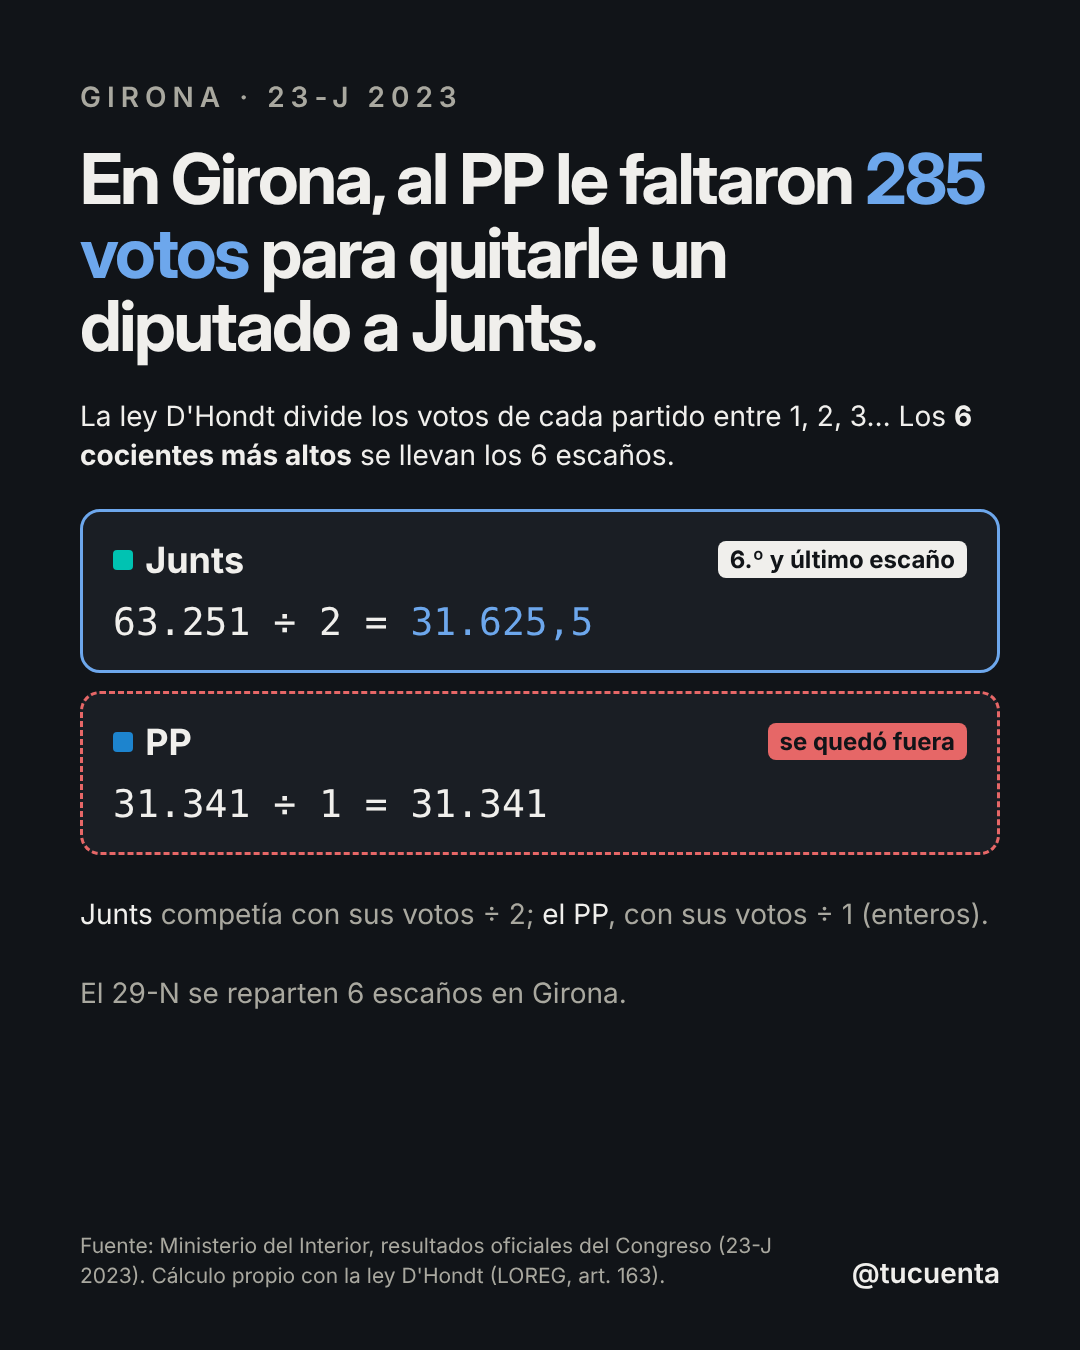
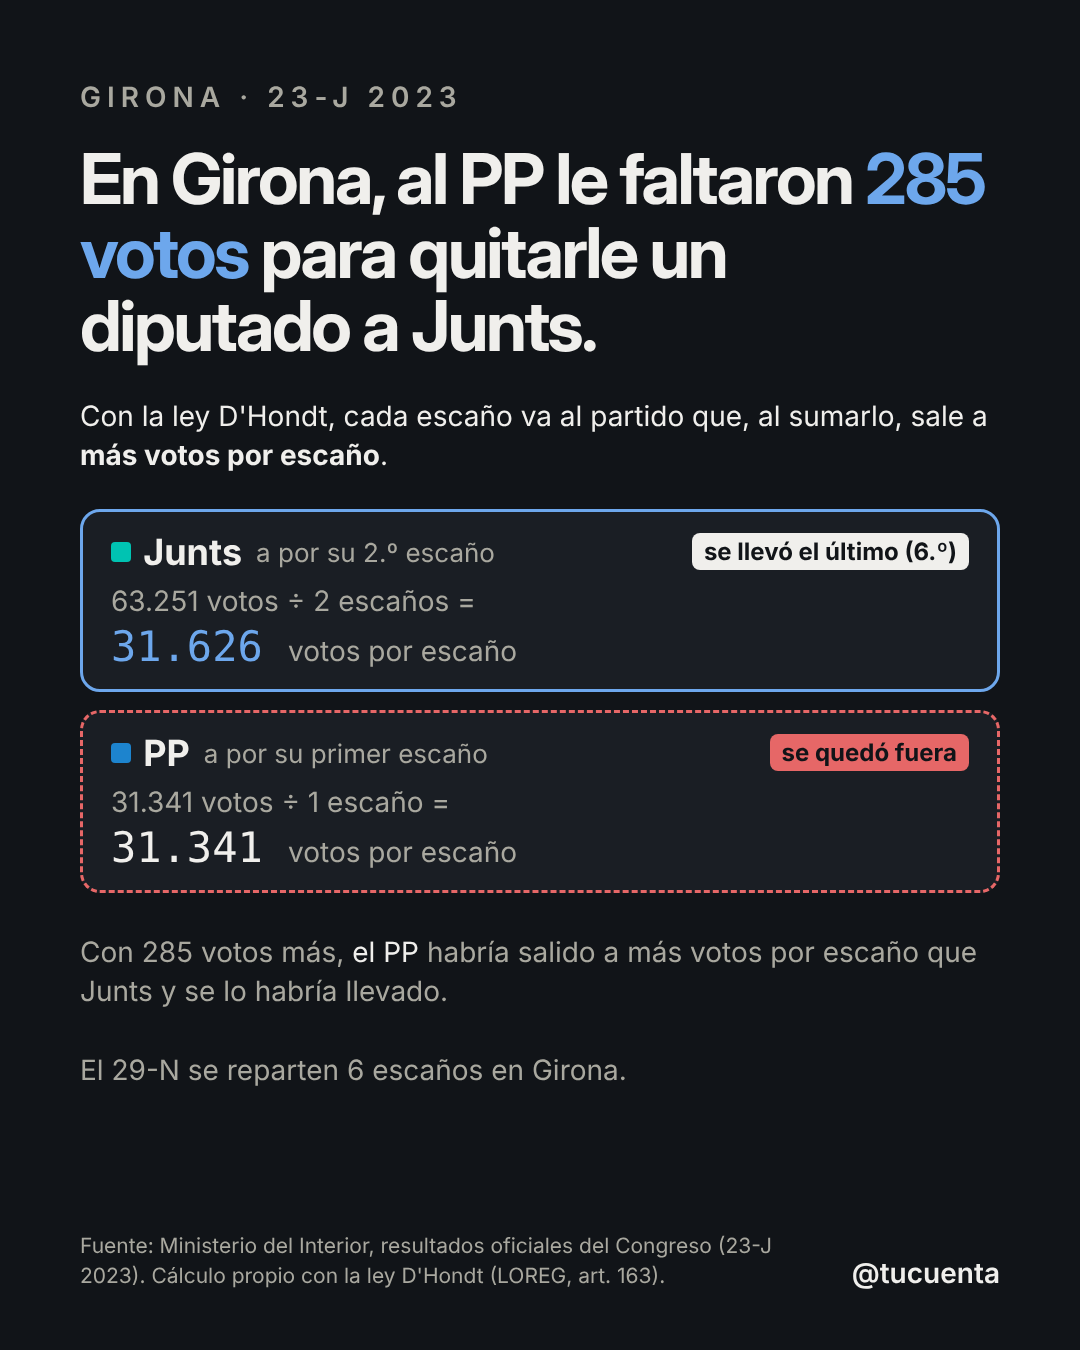
Explain D'Hondt as votes per seat in the closest-seat card and video
Claude-Session: https://claude.ai/code/session_01YN1sbJ68gMm1TyXFZ6PVcy

diff --git a/motion-demo/src/voto/provincia.tsx b/motion-demo/src/voto/provincia.tsx
@@ -2,7 +2,7 @@
 // Every number comes from congreso2023/provincias.json (official data, computed by provincias.py).
 import { Composition, Sequence, Still, interpolate, useCurrentFrame } from "remotion";
 import { Scene, useEnter } from "../Scene";
-import { DISPLAY, MONO } from "../theme";
+import { DISPLAY, FONT, MONO } from "../theme";
 import P from "./congreso2023/provincias.json";
 import { Frame, Headline, HANDLE, SRC, Seats } from "./cards";
 import { Note, SRC23, pct } from "./cards2";
@@ -37,7 +37,6 @@ const party = (p: Prov, nombre: string) => p.partidos.find((x) => x.nombre === n
 // "a" + "el PP" -> "al PP"; "de" + "el PP" -> "del PP"; "la CUP"/"Vox" keep their form.
 const con = (prep: "a" | "de", x: Partido) => (x.art === "el" ? `${prep}l ${x.nombre}` : `${prep} ${x.art ? x.art + " " : ""}${x.nombre}`);
 const art = (x: Partido) => (x.art ? `${x.art} ${x.nombre}` : x.nombre);
-const Cap = (x: Partido) => art(x)[0].toUpperCase() + art(x).slice(1);
 const dip = (n: number) => `${n} ${n === 1 ? "diputado" : "diputados"}`;
 const esc = (n: number) => `${n} ${n === 1 ? "escaño" : "escaños"}`;
 const color = (x: Partido) => x.color ?? V.dim;
@@ -120,14 +119,24 @@ export const ProvEscanos = ({ code, marca = HANDLE }: KitProps) => {
   );
 };
 
-const DueloRow = ({ x, q, tag, win }: { x: Partido; q: Cociente; tag: string; win: boolean }) => (
-  <div style={{ background: V.panel, borderRadius: 20, padding: "26px 30px", border: win ? `3px solid ${ACCENT}` : "3px dashed #E66767" }}>
+const nth = (n: number) => (n === 1 ? "primer" : `${n}.º`);
+// Votes per seat if the party takes this seat (the D'Hondt quotient); whole votes unless rounding would hide the gap.
+const porEscano = (q: number, other: number) => (Math.round(q) === Math.round(other) ? qfmt(q) : fmt(q));
+
+const DueloRow = ({ x, q, other, tag, win }: { x: Partido; q: Cociente; other: number; tag: string; win: boolean }) => (
+  <div style={{ background: V.panel, borderRadius: 20, padding: "18px 28px", border: win ? `3px solid ${ACCENT}` : "3px dashed #E66767" }}>
     <div style={{ display: "flex", justifyContent: "space-between", alignItems: "center" }}>
-      <Name x={x} size={36} />
+      <span>
+        <Name x={x} size={36} />
+        <span style={{ fontSize: 26, color: V.dim, marginLeft: 14 }}>a por su {nth(q.divisor)} escaño</span>
+      </span>
       <span style={{ fontSize: 24, fontWeight: 700, padding: "4px 12px", borderRadius: 8, background: win ? V.text : "#E66767", color: V.bg }}>{tag}</span>
     </div>
-    <div style={{ fontFamily: MONO, fontSize: 38, marginTop: 18, color: V.text }}>
-      {fmt(q.votos)} ÷ {q.divisor} = <span style={{ color: win ? ACCENT : V.text }}>{qfmt(q.cociente)}</span>
+    <div style={{ fontSize: 28, color: V.dim, marginTop: 10 }}>
+      {fmt(q.votos)} votos ÷ {q.divisor} {q.divisor === 1 ? "escaño" : "escaños"} =
+    </div>
+    <div style={{ fontFamily: MONO, fontSize: 42, marginTop: 4, color: win ? ACCENT : V.text }}>
+      {porEscano(q.cociente, other)} <span style={{ fontFamily: FONT, fontSize: 28, color: V.dim }}>votos por escaño</span>
     </div>
   </div>
 );
@@ -143,15 +152,14 @@ const AjustadoDetalle = ({ p }: { p: Prov }) => {
       {a.duelo && (
         <>
           <div style={{ fontSize: 28, lineHeight: 1.4, marginTop: 34 }}>
-            La ley D'Hondt divide los votos de cada partido entre 1, 2, 3… Los <b>{p.escanos2023} cocientes más altos</b> se llevan los {esc(p.escanos2023)}.
+            Con la ley D'Hondt, cada escaño va al partido que, al sumarlo, sale a <b>más votos por escaño</b>.
           </div>
           <div style={{ display: "flex", flexDirection: "column", gap: 18, marginTop: 34 }}>
-            <DueloRow x={l} q={a.duelo.pierde} tag={`${p.escanos2023}.º y último escaño`} win />
-            <DueloRow x={g} q={a.duelo.gana} tag="se quedó fuera" win={false} />
+            <DueloRow x={l} q={a.duelo.pierde} other={a.duelo.gana.cociente} tag={`se llevó el último (${p.escanos2023}.º)`} win />
+            <DueloRow x={g} q={a.duelo.gana} other={a.duelo.pierde.cociente} tag="se quedó fuera" win={false} />
           </div>
           <Note>
-            <span style={{ color: V.text }}>{Cap(l)}</span> competía con sus votos ÷ {a.duelo.pierde.divisor}; <span style={{ color: V.text }}>{art(g)}</span>, con sus votos ÷ {a.duelo.gana.divisor}
-            {a.duelo.gana.divisor === 1 ? " (enteros)" : ""}.
+            Con {fmt(a.votos)} votos más, <span style={{ color: V.text }}>{art(g)}</span> habría salido a más votos por escaño que {art(l)} y se lo habría llevado.
           </Note>
         </>
       )}
@@ -167,8 +175,8 @@ const AjustadoDetalle = ({ p }: { p: Prov }) => {
           </div>
           {a.umbral && (
             <div style={{ display: "flex", flexDirection: "column", gap: 18, marginTop: 10 }}>
-              <DueloRow x={l} q={a.umbral.pierde} tag={`${p.escanos2023}.º y último escaño`} win />
-              <DueloRow x={g} q={{ votos: a.umbral.conVotos, divisor: 1, cociente: a.umbral.conVotos }} tag={`con ${fmt(a.votos)} votos más`} win={false} />
+              <DueloRow x={l} q={a.umbral.pierde} other={a.umbral.conVotos} tag={`se llevó el último (${p.escanos2023}.º)`} win />
+              <DueloRow x={g} q={{ votos: a.umbral.conVotos, divisor: 1, cociente: a.umbral.conVotos }} other={a.umbral.pierde.cociente} tag={`con ${fmt(a.votos)} votos más`} win={false} />
             </div>
           )}
         </>
